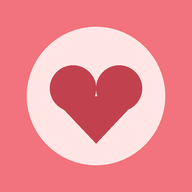
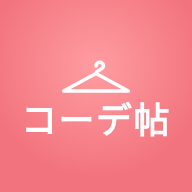
日記を「きょうのコーデ帖」に変更：ロゴ・アイコン・言い換え・日記の1ページ画像で保存
Claude-Session: https://claude.ai/code/session_01B79ZDM9fGRx8m1brCoSFNK

diff --git a/diary/index.html b/diary/index.html
@@ -6,19 +6,20 @@
 <meta name="robots" content="noindex">
 <meta name="theme-color" content="#F2737D">
 <meta name="apple-mobile-web-app-capable" content="yes">
-<meta name="apple-mobile-web-app-title" content="似合う日記">
+<meta name="apple-mobile-web-app-title" content="コーデ帖">
 <link rel="manifest" href="manifest.json">
 <link rel="apple-touch-icon" href="icon-192.png">
-<title>私の似合う日記</title>
+<title>きょうのコーデ帖</title>
 <link rel="preconnect" href="https://fonts.googleapis.com">
 <link rel="preconnect" href="https://fonts.gstatic.com" crossorigin>
-<link rel="stylesheet" href="https://fonts.googleapis.com/css2?family=Zen+Maru+Gothic:wght@500;700&family=Zen+Kaku+Gothic+New:wght@400;500;700&display=swap">
+<link rel="stylesheet" href="https://fonts.googleapis.com/css2?family=Zen+Maru+Gothic:wght@500;700&family=Klee+One:wght@600&family=Zen+Kaku+Gothic+New:wght@400;500;700&display=swap">
 <style>
 /* Layout: one narrow column like a pocket diary — record card on top, then the month page and the "褒められた" shelf */
 :root{
   --bg:#FFF7F5; --surface:#FFFFFF; --ink:#3B2A2A; --sub:#7A5D5A;
   --coral:#F2737D; --coral-ink:#C2414F; --soft:#FFE6E4; --line:#F4D3CF; --gold:#E9A23B;
   --display:'Zen Maru Gothic','Hiragino Maru Gothic ProN','Yu Gothic',sans-serif;
+  --hand:'Klee One','Zen Maru Gothic',cursive;
   --body:'Zen Kaku Gothic New','Hiragino Sans','Yu Gothic',sans-serif;
 }
 @media (prefers-color-scheme: dark){:root:not([data-theme="light"]){
@@ -97,15 +98,22 @@ dialog::backdrop{background:rgba(40,20,20,.55)}
 .confirm{display:flex;flex-direction:column;gap:10px;background:var(--soft);border-radius:14px;padding:14px}
 .toast{position:fixed;left:50%;bottom:calc(24px + env(safe-area-inset-bottom,0px));transform:translateX(-50%);background:var(--ink);color:var(--bg);padding:12px 20px;border-radius:999px;font-weight:700;z-index:20}
 @media (prefers-reduced-motion:no-preference){.tile,.day{transition:transform .15s}.tile:hover{transform:translateY(-2px)}}
+/* logo */
+.logo{display:flex;flex-direction:column;align-items:center;gap:2px;font-family:var(--hand);font-weight:600;color:var(--ink);line-height:1.25;text-align:center}
+.logo svg{width:64px;height:36px;color:var(--coral)}
+.logo .t{font-size:2.3rem;letter-spacing:.06em}
+.logo em{font-style:normal;color:var(--coral-ink)}
+.tagline{font-family:var(--display);font-weight:700;color:var(--coral-ink);letter-spacing:.08em;text-align:center}
+header.top{display:flex;flex-direction:column;align-items:center;gap:10px;text-align:center}
 /* opening */
 .splash{position:fixed;inset:0;z-index:50;display:flex;flex-direction:column;align-items:center;justify-content:center;gap:14px;text-align:center;
   background:radial-gradient(circle at 50% 40%,#FFD9D6 0%,#FFB3B0 45%,#F2737D 100%);color:#fff;overflow:hidden;cursor:pointer;
   padding:env(safe-area-inset-top,0px) max(16px,env(safe-area-inset-right,0px)) env(safe-area-inset-bottom,0px) max(16px,env(safe-area-inset-left,0px));
   transition:opacity .6s ease, transform .6s ease}
 .splash.out{opacity:0;transform:scale(1.06);pointer-events:none}
-.splash .ttl{font-family:var(--display);font-weight:700;font-size:2.4rem;line-height:1.25;text-shadow:0 2px 12px rgba(194,65,79,.35)}
+.splash .ttl{font-family:var(--hand);font-weight:600;font-size:2.6rem;letter-spacing:.06em;line-height:1.25;text-shadow:0 2px 12px rgba(194,65,79,.35)}
 .splash .sub{font-family:var(--display);font-weight:700;font-size:1.15rem;text-shadow:0 1px 8px rgba(194,65,79,.6)}
-.splash .hg{font-size:3rem;line-height:1}
+.splash .hg{width:96px;height:54px;color:#fff;filter:drop-shadow(0 2px 8px rgba(194,65,79,.4))}
 .fl{position:absolute;bottom:-40px;font-size:24px;color:#fff;opacity:.85;pointer-events:none}
 .burst{position:fixed;z-index:40;pointer-events:none;font-size:22px;color:var(--coral)}
 @media (prefers-reduced-motion:no-preference){
@@ -123,15 +131,16 @@ dialog::backdrop{background:rgba(40,20,20,.55)}
 </head>
 <body>
 <div class="splash" id="splash" role="presentation">
-  <div class="hg">♥</div>
-  <div class="ttl">私の<br>似合う日記</div>
+  <div class="hg"><svg viewBox="0 0 60 34" fill="none" stroke="currentColor" stroke-width="2.6" stroke-linecap="round" stroke-linejoin="round" aria-hidden="true"><path d="M30 10c0-4 6-4 6 0 0 3-6 3-6 6"/><path d="M30 16 4 30h52L30 16"/></svg></div>
+  <div class="ttl">きょうの<br>コーデ帖</div>
   <div class="sub">今日も、似合う私でいこう</div>
 </div>
 
 <div class="wrap">
-  <header style="display:flex;flex-direction:column;gap:8px">
-    <h1>私の似合う日記</h1>
-    <p class="lead">毎日のコーデを写真で残して、褒められた日に印をつけましょう。たまっていくほど、あなたの「似合う」が見えてきます。</p>
+  <header class="top">
+    <h1 class="logo"><svg viewBox="0 0 60 34" fill="none" stroke="currentColor" stroke-width="2.6" stroke-linecap="round" stroke-linejoin="round" aria-hidden="true"><path d="M30 10c0-4 6-4 6 0 0 3-6 3-6 6"/><path d="M30 16 4 30h52L30 16"/></svg><span class="t">きょうの<em>コーデ</em>帖</span></h1>
+    <p class="tagline">今日も、似合う私でいこう</p>
+    <p class="lead">毎日のコーデを写真とひとことで残して、褒められた日に♥をつけましょう。たまっていくほど、あなたの「似合う」が見えてきます。</p>
   </header>
 
   <section class="card" aria-labelledby="rec-h">
@@ -142,7 +151,7 @@ dialog::backdrop{background:rgba(40,20,20,.55)}
     </div>
     <div class="pick-btns">
       <label class="pick-btn">📷 カメラで撮る<input type="file" id="photoCam" accept="image/*" capture="environment"></label>
-      <label class="pick-btn">🖼 アルバムから選ぶ<input type="file" id="photo" accept="image/*"></label>
+      <label class="pick-btn">🖼 写真から選ぶ<input type="file" id="photo" accept="image/*"></label>
     </div>
     <p class="safe">🔒 写真はインターネットには送られません。このスマホの中だけに保存されます。</p>
     <label class="field" for="date">日付<input type="date" id="date"></label>
@@ -172,7 +181,7 @@ dialog::backdrop{background:rgba(40,20,20,.55)}
     <div class="shelf" id="shelf"></div>
   </section>
 
-  <div class="card" style="gap:8px"><h2 style="font-size:1.05rem">ずっと使うために</h2><p class="lead" style="font-size:.9rem">このページを「ホーム画面に追加」すると、アプリのように開けます。iPhoneはSafariの共有ボタン（□↑）から、Androidはメニュー（︙）から追加できます。</p><p class="lead" style="font-size:.9rem">日記はこのスマホの中だけにあります。ブラウザのデータを消すと日記も消えるので、残したい写真は「アルバムに保存」しておきましょう。</p></div>
+  <div class="card" style="gap:8px"><h2 style="font-size:1.05rem">ずっと使うために</h2><p class="lead" style="font-size:.9rem">このページを「ホーム画面に追加」すると、アプリのように開けます。iPhoneはSafariの共有ボタン（□↑）から、Androidはメニュー（︙）から追加できます。</p><p class="lead" style="font-size:.9rem">日記はこのスマホの中だけにあります。スマホを買い替えたときや、Safari・Chromeの履歴を消したときは、日記も消えてしまいます。残したい日は、日付をタップして「📥 スマホの写真に残す」を押しておくと安心です。写真・日付・ひとことが1枚の画像になって残ります。</p></div>
 </div>
 
 <dialog id="dlg"><div class="dlg" id="dlgBody"></div></dialog>
@@ -243,11 +252,48 @@ dialog::backdrop{background:rgba(40,20,20,.55)}
       s.style.setProperty('--dx',Math.cos(a)*(90+Math.random()*60)+'px');s.style.setProperty('--dy',(Math.sin(a)*(90+Math.random()*60)-40)+'px');
       document.body.appendChild(s);setTimeout(()=>s.remove(),1200)}}
 
+  // 日記の1ページ（写真＋日付＋ひとこと＋♥）を1枚の画像にする
+  function loadImg(src){return new Promise((res,rej)=>{const i=new Image();i.onload=()=>res(i);i.onerror=rej;i.src=src})}
+  function wrapLines(ctx,text,maxW){const out=[];String(text).split('\n').forEach(par=>{let line='';for(const ch of par){if(ctx.measureText(line+ch).width>maxW&&line){out.push(line);line=ch}else line+=ch}out.push(line)});return out}
+  async function makePage(x){
+    try{await Promise.all([document.fonts.load('600 40px "Klee One"'),document.fonts.load('700 50px "Zen Maru Gothic"'),document.fonts.load('500 40px "Zen Kaku Gothic New"')])}catch(e){}
+    const W=1080,P=60,IW=W-P*2-48;
+    const im=await loadImg(x.img);
+    let ih=Math.round(im.height*IW/im.width);const maxH=1240;let sy=0,sh=im.height;
+    if(ih>maxH){sh=Math.round(im.width*maxH/IW);sy=Math.round((im.height-sh)/2);ih=maxH}
+    const c=document.createElement('canvas'),ctx=c.getContext('2d');
+    ctx.font='500 40px "Zen Kaku Gothic New","Hiragino Sans",sans-serif';
+    const lines=x.memo?wrapLines(ctx,x.memo,IW):[];
+    const H=P+24+ih+40+64+(lines.length?24+lines.length*60:0)+48+80+P;
+    c.width=W;c.height=H;
+    ctx.fillStyle='#FFF7F5';ctx.fillRect(0,0,W,H);
+    const cy=P,ch=H-P*2-80;
+    ctx.fillStyle='#FFFFFF';ctx.beginPath();ctx.roundRect(P,cy,W-P*2,ch,36);ctx.fill();
+    ctx.strokeStyle='#F4D3CF';ctx.lineWidth=3;ctx.stroke();
+    const ix=P+24,iy=cy+24;
+    ctx.save();ctx.beginPath();ctx.roundRect(ix,iy,IW,ih,24);ctx.clip();ctx.drawImage(im,0,sy,im.width,sh,ix,iy,IW,ih);ctx.restore();
+    let y=iy+ih+40+50;
+    ctx.fillStyle='#C2414F';ctx.font='700 50px "Zen Maru Gothic","Hiragino Maru Gothic ProN",sans-serif';ctx.textBaseline='alphabetic';
+    const d=jdate(x.date);ctx.fillText(d,ix,y);
+    if(x.praised){const dw=ctx.measureText(d+'  ').width;ctx.fillStyle='#F2737D';ctx.fillText('♥ 褒められた日',ix+dw,y)}
+    y+=14;
+    if(lines.length){ctx.fillStyle='#3B2A2A';ctx.font='500 40px "Zen Kaku Gothic New","Hiragino Sans",sans-serif';y+=24;lines.forEach(l=>{y+=60;ctx.fillText(l,ix,y-12)})}
+    // ロゴ
+    const ly=H-P-26;ctx.textAlign='center';ctx.fillStyle='#7A5D5A';ctx.font='600 40px "Klee One","Zen Maru Gothic",cursive';
+    ctx.fillText('きょうのコーデ帖',W/2+30,ly);
+    const tw=ctx.measureText('きょうのコーデ帖').width,hx=W/2+30-tw/2-70,hy=ly-34;
+    ctx.save();ctx.translate(hx,hy);ctx.scale(1.1,1.1);ctx.strokeStyle='#F2737D';ctx.lineWidth=3;ctx.lineCap='round';ctx.lineJoin='round';
+    ctx.stroke(new Path2D('M30 10c0-4 6-4 6 0 0 3-6 3-6 6'));ctx.stroke(new Path2D('M30 16 4 30h52L30 16'));ctx.restore();
+    return new Promise(res=>c.toBlob(b=>res({blob:b,url:c.toDataURL('image/jpeg',0.9)}),'image/jpeg',0.9));
+  }
   async function saveImg(x){
-    try{const blob=await (await fetch(x.img)).blob();const file=new File([blob],'niau-'+x.date+'.jpg',{type:'image/jpeg'});
+    let pg=null;
+    try{pg=await makePage(x);const file=new File([pg.blob],'kode-'+x.date+'.jpg',{type:'image/jpeg'});
       if(navigator.canShare&&navigator.canShare({files:[file]})){await navigator.share({files:[file]});return}
-      const a=document.createElement('a');a.href=URL.createObjectURL(blob);a.download=file.name;document.body.appendChild(a);a.click();a.remove();toast('保存しました');
-    }catch(e){if(e&&e.name!=='AbortError')toast('保存できませんでした。写真を長押しして保存してください')}}
+      const a=document.createElement('a');a.href=URL.createObjectURL(pg.blob);a.download=file.name;document.body.appendChild(a);a.click();a.remove();toast('スマホに残しました');
+    }catch(e){if(e&&e.name==='AbortError')return;
+      if(pg){const im=document.querySelector('#dlgBody img');if(im)im.src=pg.url}
+      toast('上の画像を長押しして「写真に追加」を押してください')}}
   function toast(t){const el=document.createElement('div');el.className='toast';el.textContent=t;document.body.appendChild(el);setTimeout(()=>el.remove(),2200)}
 
   // ---- tabs ----
@@ -294,7 +340,7 @@ dialog::backdrop{background:rgba(40,20,20,.55)}
       '<h2>'+jdate(x.date)+(x.praised?' <span style="color:var(--coral)">♥</span>':'')+'</h2>'+
       (x.memo?'<p>'+esc(x.memo)+'</p>':'')+
       (x.sample?'<p class="note">これは見本です。</p><div class="row"><button class="btn-main" id="dClose">閉じる</button></div>':
-      '<button class="btn-ghost" id="dSave">📥 写真をアルバムに保存</button><div class="row"><button class="btn-ghost" id="dPraise">'+(x.praised?'♥ の印を外す':'♥ 褒められた印をつける')+'</button><button class="btn-main" id="dClose">閉じる</button></div><button class="danger" id="dDel">この日記を消す</button><div id="dConfirm"></div>');
+      '<button class="btn-ghost" id="dSave">📥 スマホの写真に残す</button><div class="row"><button class="btn-ghost" id="dPraise">'+(x.praised?'♥ の印を外す':'♥ 褒められた印をつける')+'</button><button class="btn-main" id="dClose">閉じる</button></div><button class="danger" id="dDel">この日記を消す</button><div id="dConfirm"></div>');
     const dlg=$('dlg');
     $('dClose').onclick=()=>dlg.close();
     if(!x.sample){

diff --git a/diary/sw.js b/diary/sw.js
@@ -1,4 +1,4 @@
-const C='niau-diary-v1';
+const C='niau-diary-v2';
 self.addEventListener('install',e=>{e.waitUntil(caches.open(C).then(c=>c.addAll(['./','./index.html','./manifest.json','./icon-192.png'])));self.skipWaiting()});
 self.addEventListener('activate',e=>{e.waitUntil(caches.keys().then(ks=>Promise.all(ks.filter(k=>k!==C).map(k=>caches.delete(k)))));self.clients.claim()});
 self.addEventListener('fetch',e=>{if(e.request.method!=='GET')return;e.respondWith(fetch(e.request).then(r=>{const cp=r.clone();caches.open(C).then(c=>c.put(e.request,cp));return r}).catch(()=>caches.match(e.request)))});
